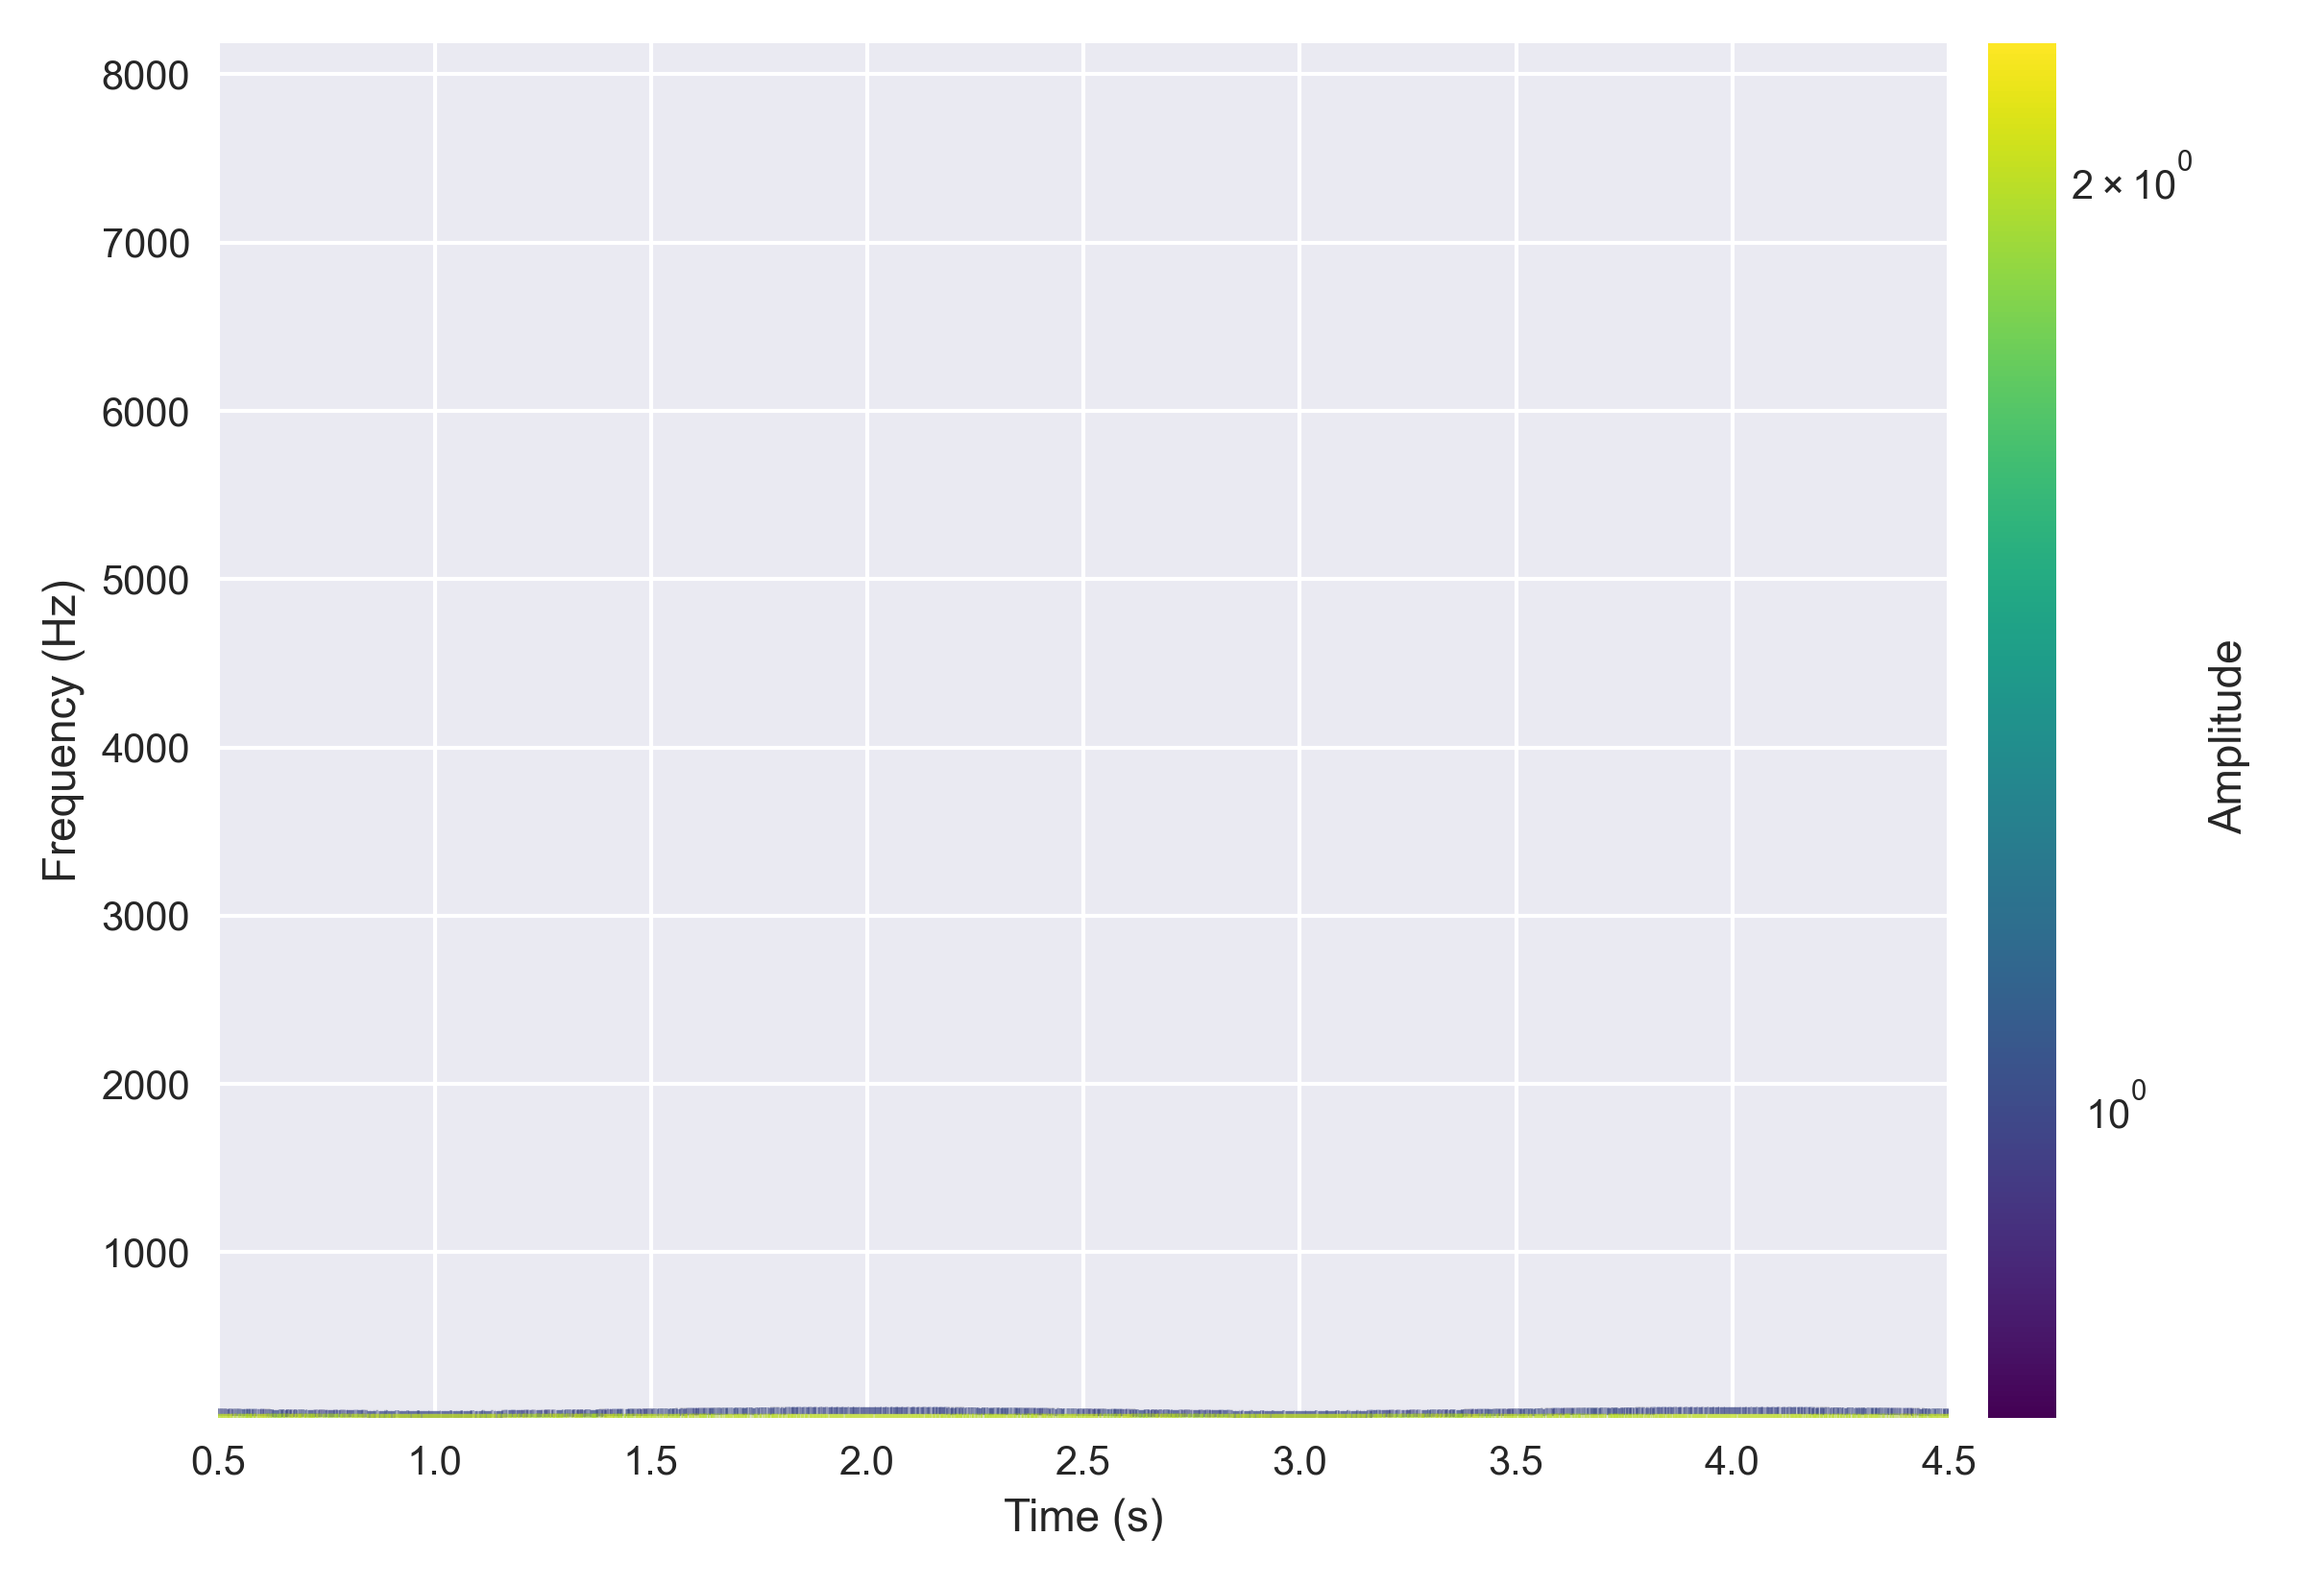
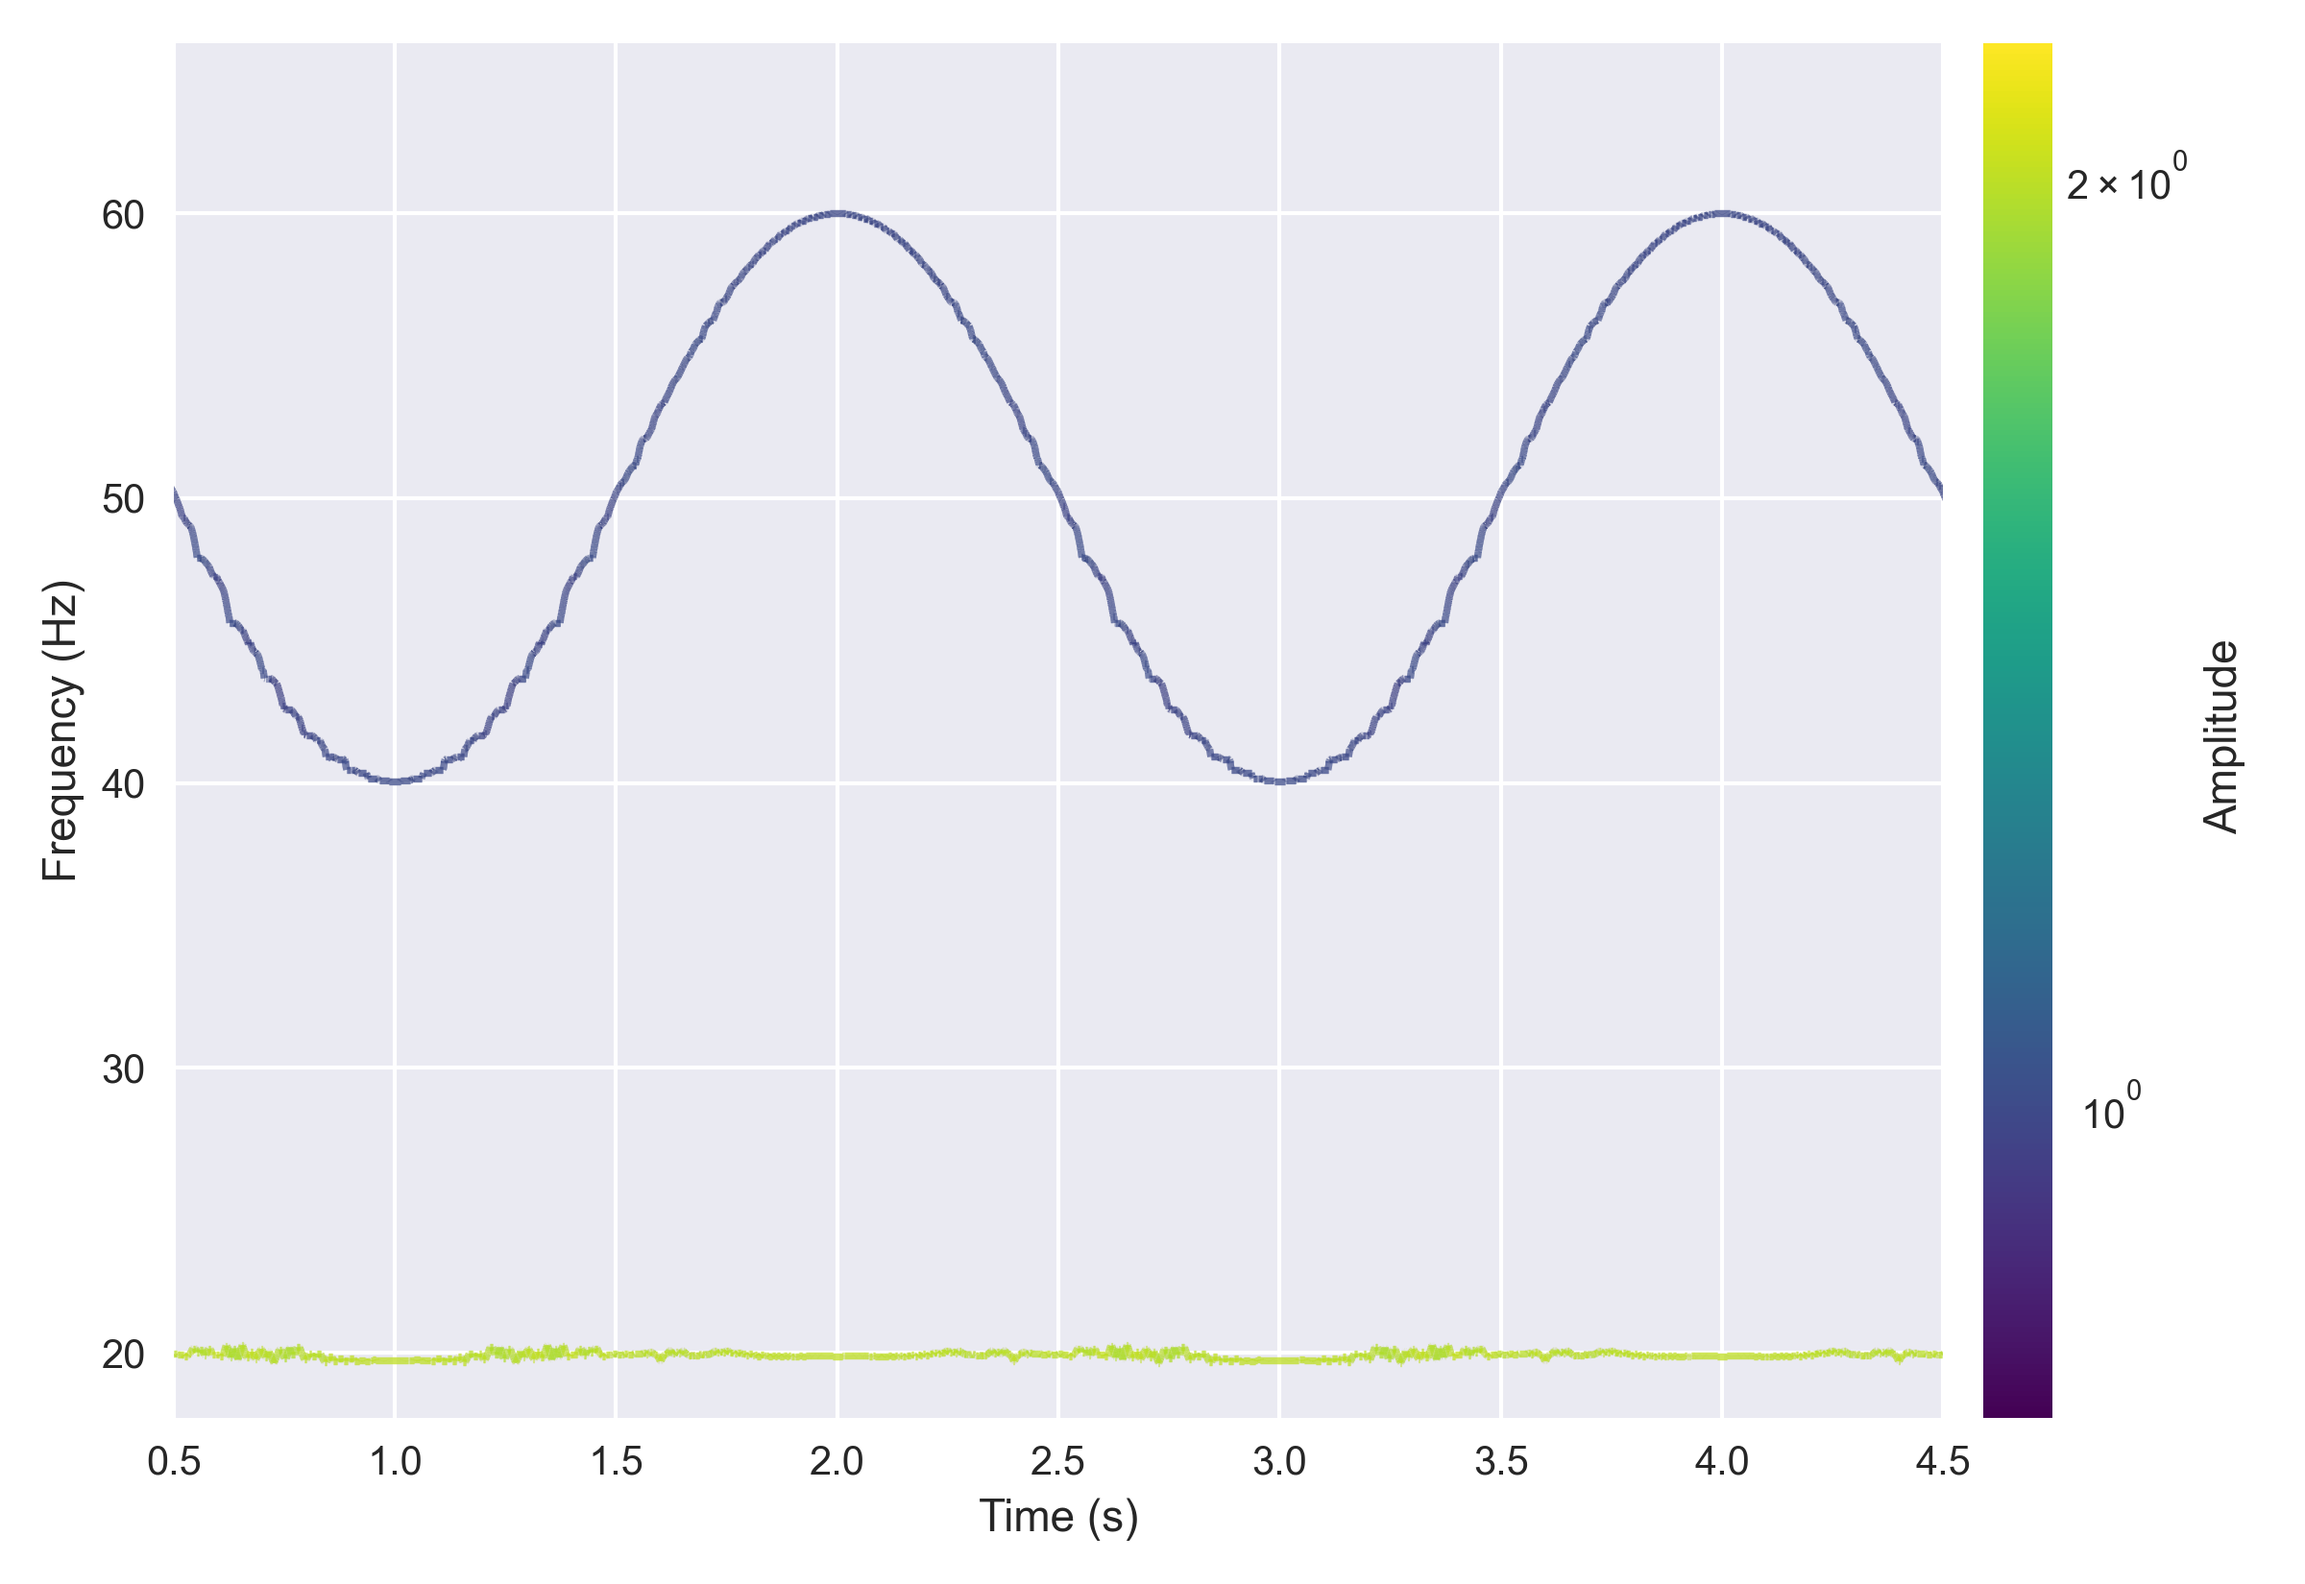
Add Hilbert method, adaptive stopping criteria, and improve plots

diff --git a/hhtpy/tests.py b/hhtpy/tests.py
@@ -1,7 +1,15 @@
 import unittest
 import numpy as np
 from hhtpy.emd import decompose
-from hhtpy.hht import hilbert_huang_transform, marginal_hilbert_spectrum
+from hhtpy.hht import (
+    hilbert_huang_transform,
+    marginal_hilbert_spectrum,
+    calculate_instantaneous_frequency_hilbert,
+)
+from hhtpy.sift_stopping_criteria import (
+    get_stopping_criterion_s_number,
+    get_stopping_criterion_cauchy,
+)
 from hhtpy.plot import plot_imfs
 import matplotlib.pyplot as plt
 
@@ -257,6 +265,89 @@ class TestPlotSubplots(unittest.TestCase):
         )
         self.assertEqual(len(axs), 1 + 1 + 1)  # signal + 1 IMF + residue
         plt.close(fig)
+
+
+class TestHilbertMethod(unittest.TestCase):
+
+    def test_hilbert_frequency_pure_cosine(self):
+        """Hilbert method should recover the correct frequency of a pure cosine."""
+        f_s = 5000
+        true_freq = 40  # Hz
+        t = np.arange(3 * f_s) / f_s
+        signal = np.cos(2 * np.pi * true_freq * t)
+
+        imf_objects, residue = hilbert_huang_transform(
+            signal, f_s,
+            frequency_calculation_method=calculate_instantaneous_frequency_hilbert,
+        )
+
+        freq = imf_objects[0].instantaneous_frequency
+        # Interior values (skip edge effects)
+        interior = freq[len(freq) // 10 : -len(freq) // 10]
+        median_freq = np.median(interior)
+
+        self.assertAlmostEqual(
+            median_freq, true_freq, delta=2.0,
+            msg=f"Hilbert method median freq should be ~{true_freq} Hz, got {median_freq:.1f} Hz",
+        )
+
+    def test_hilbert_method_round_trip(self):
+        """HHT with Hilbert method should still reconstruct the signal."""
+        f_s = 1000
+        t = np.arange(2 * f_s) / f_s
+        signal = np.cos(2 * np.pi * 20 * t)
+
+        imf_objects, residue = hilbert_huang_transform(
+            signal, f_s,
+            frequency_calculation_method=calculate_instantaneous_frequency_hilbert,
+        )
+        imf_signals = np.array([imf.signal for imf in imf_objects])
+        reconstructed = np.sum(imf_signals, axis=0) + residue
+
+        np.testing.assert_allclose(reconstructed, signal, atol=1e-10)
+
+
+class TestStoppingCriteria(unittest.TestCase):
+
+    def _make_signal(self):
+        f_s = 1000
+        t = np.arange(3 * f_s) / f_s
+        return np.cos(2 * np.pi * 10 * t) + 0.5 * np.cos(2 * np.pi * 50 * t)
+
+    def test_s_number_produces_valid_decomposition(self):
+        signal = self._make_signal()
+        criterion = get_stopping_criterion_s_number(s_number=5)
+        imfs, residue = decompose(signal, stopping_criterion=criterion)
+
+        self.assertGreater(len(imfs), 0)
+        reconstructed = np.sum(imfs, axis=0) + residue
+        np.testing.assert_allclose(reconstructed, signal, atol=1e-10)
+
+    def test_cauchy_produces_valid_decomposition(self):
+        signal = self._make_signal()
+        criterion = get_stopping_criterion_cauchy(threshold=0.3)
+        imfs, residue = decompose(signal, stopping_criterion=criterion)
+
+        self.assertGreater(len(imfs), 0)
+        reconstructed = np.sum(imfs, axis=0) + residue
+        np.testing.assert_allclose(reconstructed, signal, atol=1e-10)
+
+    def test_s_number_resets_between_imfs(self):
+        """S-number state should reset for each IMF extraction (two-tone signal)."""
+        signal = self._make_signal()
+        criterion = get_stopping_criterion_s_number(s_number=3)
+        imfs, residue = decompose(signal, stopping_criterion=criterion)
+
+        # Should produce at least 2 IMFs for a two-tone signal
+        self.assertGreaterEqual(len(imfs), 2)
+
+    def test_cauchy_resets_between_imfs(self):
+        """Cauchy state should reset for each IMF extraction."""
+        signal = self._make_signal()
+        criterion = get_stopping_criterion_cauchy(threshold=0.2)
+        imfs, residue = decompose(signal, stopping_criterion=criterion)
+
+        self.assertGreaterEqual(len(imfs), 2)
 
 
 if __name__ == "__main__":

diff --git a/hhtpy/sift_stopping_criteria.py b/hhtpy/sift_stopping_criteria.py
@@ -1,5 +1,6 @@
 from typing import Callable
 import numpy as np
+from scipy.signal import find_peaks
 
 # mode, total_sifts_performed -> True if stopping criterion is met
 SiftStoppingCriterion = Callable[[np.ndarray, int], bool]
@@ -12,3 +13,77 @@ def get_stopping_criterion_fixed_number_of_sifts(
         return total_sifts_performed >= fixed_number_of_sifts
 
     return _fixed_number_of_sifts
+
+
+def get_stopping_criterion_s_number(s_number: int = 5) -> SiftStoppingCriterion:
+    """
+    S-number stopping criterion (Huang et al., 2003).
+
+    Counts consecutive sifts where the number of extrema and zero-crossings
+    remains unchanged. Stops when this count reaches ``s_number``.
+
+    Args:
+        s_number: Number of consecutive unchanged sifts before stopping. Default is 5.
+    """
+    state = {"prev_num_extrema": None, "prev_num_zero_crossings": None, "consecutive": 0}
+
+    def _s_number_criterion(mode: np.ndarray, total_sifts_performed: int) -> bool:
+        if total_sifts_performed == 0:
+            state["prev_num_extrema"] = None
+            state["prev_num_zero_crossings"] = None
+            state["consecutive"] = 0
+            return False
+
+        num_maxima = len(find_peaks(mode)[0])
+        num_minima = len(find_peaks(-mode)[0])
+        num_extrema = num_maxima + num_minima
+
+        zero_crossings = np.sum(np.diff(np.sign(mode)) != 0)
+
+        if (
+            num_extrema == state["prev_num_extrema"]
+            and zero_crossings == state["prev_num_zero_crossings"]
+        ):
+            state["consecutive"] += 1
+        else:
+            state["consecutive"] = 0
+
+        state["prev_num_extrema"] = num_extrema
+        state["prev_num_zero_crossings"] = zero_crossings
+
+        return state["consecutive"] >= s_number
+
+    return _s_number_criterion
+
+
+def get_stopping_criterion_cauchy(threshold: float = 0.3) -> SiftStoppingCriterion:
+    """
+    Cauchy convergence stopping criterion.
+
+    Stops sifting when the relative energy change between consecutive sifts
+    falls below a threshold:
+
+    .. math::
+        SD = \\frac{\\sum (h_{k-1}(t) - h_k(t))^2}{\\sum h_{k-1}(t)^2} < \\text{threshold}
+
+    Args:
+        threshold: Convergence threshold. Default is 0.3.
+    """
+    state = {"prev_mode": None}
+
+    def _cauchy_criterion(mode: np.ndarray, total_sifts_performed: int) -> bool:
+        if total_sifts_performed == 0:
+            state["prev_mode"] = mode.copy()
+            return False
+
+        prev_energy = np.sum(state["prev_mode"] ** 2)
+        if prev_energy == 0:
+            state["prev_mode"] = mode.copy()
+            return True
+
+        sd = np.sum((state["prev_mode"] - mode) ** 2) / prev_energy
+        state["prev_mode"] = mode.copy()
+
+        return sd < threshold
+
+    return _cauchy_criterion

diff --git a/hhtpy/hht.py b/hhtpy/hht.py
@@ -4,6 +4,7 @@ from typing import Callable
 import numpy as np
 from scipy.interpolate import CubicSpline
 from scipy.ndimage import median_filter
+from scipy.signal import hilbert
 from ._emd_utils import find_local_extrema, get_freq_lim
 from .emd import decompose
 
@@ -201,6 +202,29 @@ def _calculate_quadrature(monocomponent: np.ndarray) -> np.ndarray:
     return quadrature
 
 
+def calculate_instantaneous_frequency_hilbert(
+    imf: np.ndarray,
+    sampling_frequency: float,
+) -> np.ndarray:
+    """
+    Calculate the instantaneous frequency using the Hilbert transform.
+
+    Computes the analytic signal via scipy.signal.hilbert, then derives
+    instantaneous frequency from the unwrapped phase gradient.
+
+    Parameters:
+        imf (np.ndarray): Input intrinsic mode function (IMF).
+        sampling_frequency (float): Sampling frequency of the signal.
+
+    Returns:
+        np.ndarray: Instantaneous frequency array.
+    """
+    analytic_signal = hilbert(imf)
+    phase = np.unwrap(np.angle(analytic_signal))
+    frequency = sampling_frequency / (2 * np.pi) * np.abs(np.gradient(phase))
+    return frequency
+
+
 FrequencyCalculationMethod = Callable[[np.ndarray, float], np.ndarray]
 AmplitudeCalculationMethod = Callable[[np.ndarray], np.ndarray]
 
@@ -279,19 +303,11 @@ def marginal_hilbert_spectrum(
         freq = freq[freq_cond_index]
         amp = amp[freq_cond_index]
 
-        sort_args = np.argsort(freq)
-        freq = freq[sort_args]
-        amp = amp[sort_args]
-
-        freq_intervals_imf = np.floor(np.divide(freq, frequency_bin_size))
-        freq_intervals_imf = np.array(freq_intervals_imf, dtype="int")
-
-        freq_intervals = np.unique(freq_intervals_imf)
-        bins = np.array([freq_intervals])
-        sum_equal = lambda i: np.sum(amp[freq_intervals_imf == i])
-
-        amplitudes_imf = np.apply_along_axis(sum_equal, 0, bins)
-        amplitudes[freq_intervals] += amplitudes_imf
+        freq_intervals_imf = np.floor(freq / frequency_bin_size).astype(int)
+        freq_intervals_imf = np.clip(freq_intervals_imf, 0, len(frequencies) - 1)
+        amplitudes += np.bincount(
+            freq_intervals_imf, weights=amp, minlength=len(frequencies)
+        )
 
     amplitudes = amplitudes / len(imfs[0].signal)
 

diff --git a/hhtpy/plot.py b/hhtpy/plot.py
@@ -50,8 +50,8 @@ def plot_hilbert_spectrum(
     )
 
     x_lim = [0, time_variable[-1]]
-    y_lim = get_freq_lim(imfs)
-    c_lim = get_clim(imfs, config.min_amplitude_lim)
+    y_lim = get_freq_lim(imfs[:num_imfs], percentile=1)
+    c_lim = get_clim(imfs[:num_imfs], config.min_amplitude_lim)
 
     for imf in imfs[:num_imfs]:
         frequency = imf.instantaneous_frequency.copy()
@@ -142,18 +142,21 @@ def plot_imfs(
             axs[idx].plot(signal)
         else:
             axs[idx].plot(x_axis, signal)
+        axs[idx].set_ylabel("Signal")
         idx += 1
     for i in range(num_imfs):
         if x_axis is None:
             axs[idx].plot(imfs[i])
         else:
             axs[idx].plot(x_axis, imfs[i])
+        axs[idx].set_ylabel(f"IMF {i + 1}")
         idx += 1
     if residue is not None:
         if x_axis is None:
             axs[idx].plot(residue)
         else:
             axs[idx].plot(x_axis, residue)
+        axs[idx].set_ylabel("Residue")
 
     return fig, axs
 

diff --git a/hhtpy/_emd_utils.py b/hhtpy/_emd_utils.py
@@ -272,11 +272,14 @@ def find_local_extrema(signal: np.ndarray) -> Tuple[np.ndarray, np.ndarray]:
     return maxima_indices, minima_indices
 
 
-def get_freq_lim(imfs, padding=0.1):
-    freqs = []
-    for imf in imfs:
-        freq = imf.instantaneous_frequency[~np.isnan(imf.instantaneous_frequency)]
-        freqs.extend([np.min(freq), np.max(freq)])
-
-    freqs = np.array(freqs)
-    return np.min(freqs) * (1 - padding), np.max(freqs) * (1 + padding)
+def get_freq_lim(imfs, padding=0.1, percentile=None):
+    all_freqs = np.concatenate(
+        [imf.instantaneous_frequency[~np.isnan(imf.instantaneous_frequency)] for imf in imfs]
+    )
+    if percentile is not None:
+        min_freq = np.percentile(all_freqs, percentile)
+        max_freq = np.percentile(all_freqs, 100 - percentile)
+    else:
+        min_freq = np.min(all_freqs)
+        max_freq = np.max(all_freqs)
+    return min_freq * (1 - padding), max_freq * (1 + padding)

diff --git a/hhtpy/__init__.py b/hhtpy/__init__.py
@@ -4,4 +4,6 @@ from .hht import (
     IntrinsicModeFunction,
     hilbert_huang_transform,
     marginal_hilbert_spectrum,
+    calculate_instantaneous_frequency_hilbert,
+    calculate_instantaneous_frequency_quadrature,
 )
